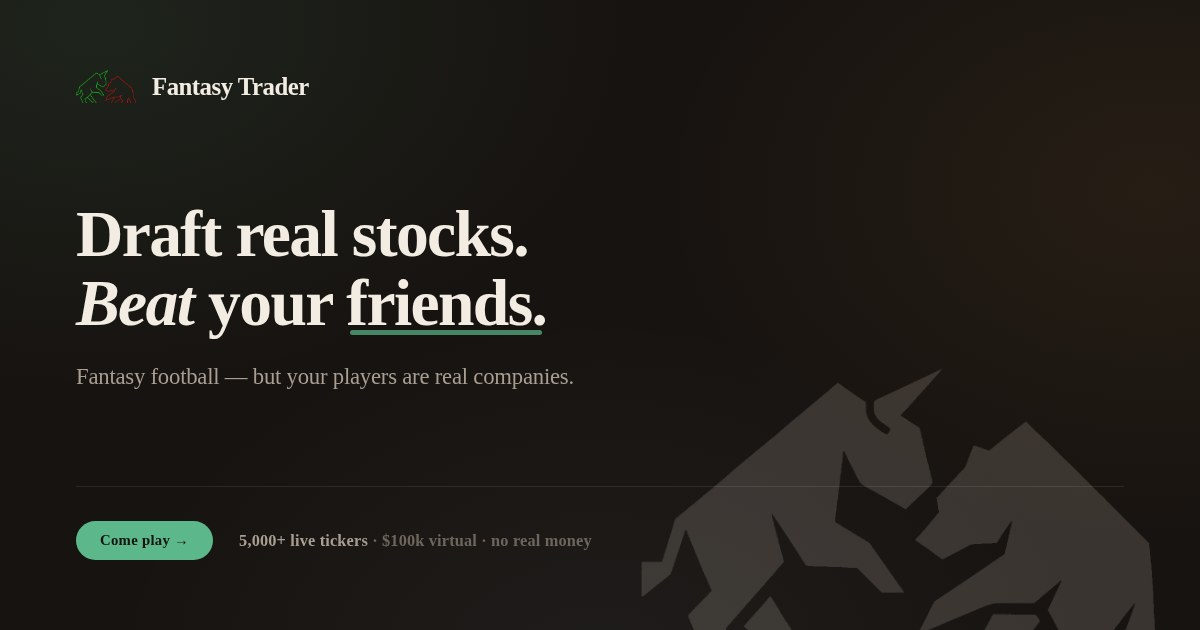
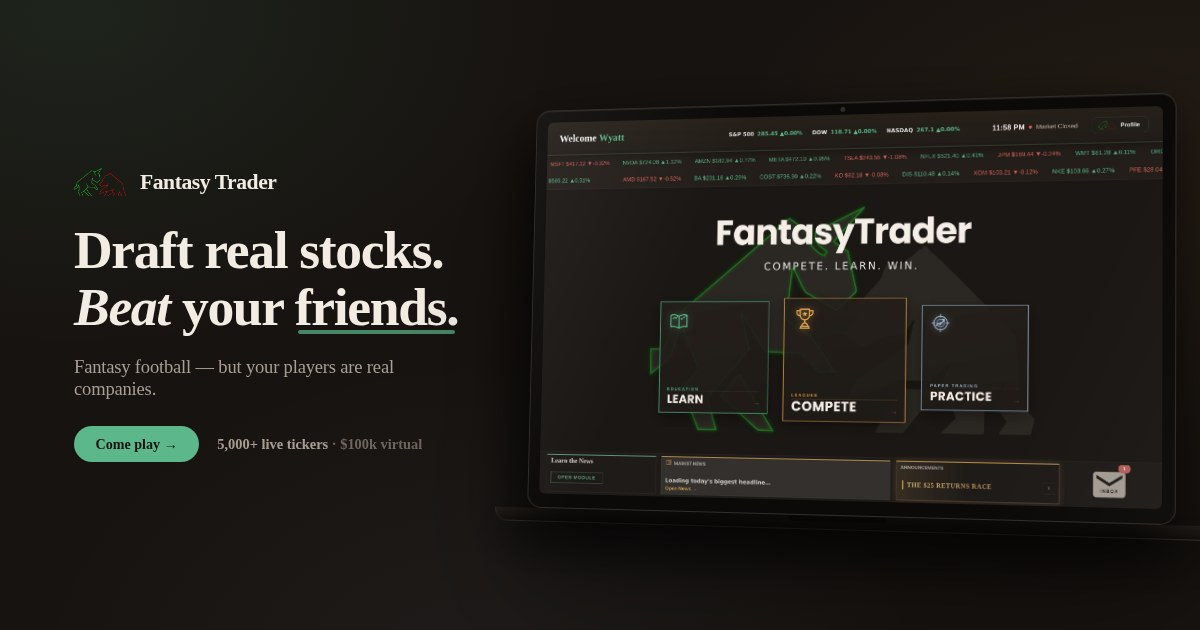
Fantasy Trader update Aug 08, 1:03 PM

diff --git a/_ogcard.html b/_ogcard.html
@@ -1,53 +1,60 @@
-<!DOCTYPE html><html><head>
-    <!-- how the link looks when someone shares it -->
-    <meta property="og:type" content="website">
-    <meta property="og:site_name" content="Fantasy Trader">
-    <meta property="og:url" content="https://fantasytrader.co/">
-    <meta property="og:title" content="Come play Fantasy Trader">
-    <meta property="og:description" content="Fantasy football, but your players are real companies. Draft stocks, run $100,000, and beat your friends head-to-head every week. Free, no real money.">
-    <meta property="og:image" content="https://fantasytrader.co/og-image.jpg">
-    <meta property="og:image:width" content="1200">
-    <meta property="og:image:height" content="630">
-    <meta property="og:image:alt" content="Fantasy Trader — draft real stocks, beat your friends">
-    <meta name="twitter:card" content="summary_large_image">
-    <meta name="twitter:title" content="Come play Fantasy Trader">
-    <meta name="twitter:description" content="Fantasy football, but your players are real companies. Draft stocks, run $100,000, and beat your friends every week.">
-    <meta name="twitter:image" content="https://fantasytrader.co/og-image.jpg"><meta charset="utf-8">
+<!DOCTYPE html><html><head><meta charset="utf-8">
 <link href="https://fonts.googleapis.com/css2?family=Inter:wght@500;600;700;800&family=Fraunces:ital,opsz,wght@0,9..144,550;1,9..144,550&display=swap" rel="stylesheet">
 <style>
-* { margin:0; padding:0; box-sizing:border-box; }
-body { width:1200px; height:630px; background:#171310; overflow:hidden;
-  font-family:'Inter',sans-serif; color:#F2ECE3; position:relative; }
-body::before { content:''; position:absolute; inset:0;
+*{margin:0;padding:0;box-sizing:border-box}
+body{width:1200px;height:630px;background:#171310;overflow:hidden;
+  font-family:'Inter',sans-serif;color:#F2ECE3;position:relative}
+body::before{content:'';position:absolute;inset:0;
   background:
-    radial-gradient(760px 520px at 8% 4%, rgba(92,184,138,.10), transparent 70%),
-    radial-gradient(700px 500px at 96% 30%, rgba(224,162,76,.075), transparent 70%),
-    radial-gradient(700px 520px at 50% 108%, rgba(157,184,210,.06), transparent 70%); }
-.art { position:absolute; right:-40px; bottom:-70px; width:660px; opacity:.16; }
-.wrap { position:relative; padding:70px 76px; height:100%; display:flex; flex-direction:column; }
-.top { display:flex; align-items:center; gap:16px; }
-.top img { width:60px; }
-.top b { font:800 1.55rem 'Inter'; letter-spacing:-.02em; }
-h1 { font:550 4.1rem/1.05 'Fraunces',Georgia,serif; letter-spacing:-.025em; margin-top:auto; max-width:820px; }
-h1 em { font-style:italic; }
-h1 .u { position:relative; white-space:nowrap; }
-h1 .u::after { content:''; position:absolute; left:2%; right:2%; bottom:.06em; height:.075em;
-  background:#5CB88A; opacity:.7; border-radius:3px; }
-.sub { margin-top:26px; font:500 1.42rem 'Inter'; color:#A89E92; letter-spacing:-.01em; }
-.foot { margin-top:auto; padding-top:34px; display:flex; align-items:center; gap:26px;
-  border-top:1px solid rgba(240,232,220,.10); }
-.pill { font:700 .92rem 'Inter'; letter-spacing:.02em; color:#171310; background:#5CB88A;
-  padding:.68rem 1.5rem; border-radius:999px; }
-.meta { font:600 1.02rem 'Inter'; color:#6E655C; letter-spacing:.01em; }
-.meta span { color:#A89E92; }
+    radial-gradient(700px 480px at 6% 2%, rgba(92,184,138,.10), transparent 70%),
+    radial-gradient(680px 470px at 98% 34%, rgba(224,162,76,.075), transparent 70%),
+    radial-gradient(640px 480px at 40% 110%, rgba(157,184,210,.055), transparent 70%)}
+.grid{position:relative;height:100%;display:grid;grid-template-columns:0.93fr 1.07fr;
+  gap:34px;align-items:center;padding:0 0 0 74px}
+.top{display:flex;align-items:center;gap:14px;margin-bottom:26px}
+.top img{width:52px}
+.top b{font:800 1.35rem 'Inter';letter-spacing:-.02em}
+h1{font:550 3.35rem/1.06 'Fraunces',Georgia,serif;letter-spacing:-.025em}
+h1 em{font-style:italic}
+h1 .u{position:relative;white-space:nowrap}
+h1 .u::after{content:'';position:absolute;left:2%;right:2%;bottom:.06em;height:.08em;
+  background:#5CB88A;opacity:.7;border-radius:3px}
+.sub{margin-top:20px;font:500 1.16rem 'Inter';color:#A89E92;letter-spacing:-.01em;max-width:26rem}
+.foot{margin-top:26px;display:flex;align-items:center;gap:18px}
+.pill{font:700 .88rem 'Inter';color:#171310;background:#5CB88A;padding:.6rem 1.35rem;border-radius:999px}
+.meta{font:600 .9rem 'Inter';color:#6E655C}
+.meta span{color:#A89E92}
+/* the machine, angled exactly like the hero */
+.zone{position:relative;perspective:1700px;padding-right:0}
+.machine{transform:rotateY(-13deg) rotateX(3.5deg);transform-style:preserve-3d;width:660px}
+.screen{position:relative;border-radius:15px;overflow:hidden;background:#0C0A08;padding:12px 12px 14px;
+  border:1px solid rgba(240,232,220,.16);
+  box-shadow:0 1px 0 rgba(255,255,255,.08) inset,0 28px 64px rgba(0,0,0,.55),
+             0 80px 140px rgba(0,0,0,.36),-16px 26px 54px rgba(0,0,0,.3)}
+.screen::after{content:'';position:absolute;inset:0;pointer-events:none;
+  background:linear-gradient(115deg,rgba(255,255,255,.06) 0%,transparent 28%,transparent 78%,rgba(255,255,255,.025) 100%)}
+.cam{position:absolute;top:4px;left:50%;transform:translateX(-50%);width:5px;height:5px;border-radius:50%;background:rgba(240,232,220,.16)}
+.screen img{display:block;width:100%;border-radius:6px;background:#1A1714}
+.base{height:14px;margin:0 -5.5%;border-radius:0 0 15px 15px;
+  background:linear-gradient(180deg,#2A241F,#16120F);
+  border:1px solid rgba(240,232,220,.1);border-top:none;
+  box-shadow:0 20px 40px rgba(0,0,0,.45);display:flex;justify-content:center}
+.base span{width:100px;height:5px;margin-top:1px;border-radius:0 0 8px 8px;background:rgba(0,0,0,.4)}
 </style></head><body>
-<img class="art" src="dash-hero.png" onerror="this.style.display='none'">
-<div class="wrap">
-  <div class="top"><img src="ft-logo-mark.png"><b>Fantasy Trader</b></div>
-  <h1>Draft real stocks.<br><em>Beat</em> your <span class="u">friends.</span></h1>
-  <div class="sub">Fantasy football — but your players are real companies.</div>
-  <div class="foot">
-    <span class="pill">Come play →</span>
-    <span class="meta"><span>5,000+ live tickers</span> · $100k virtual · no real money</span>
+<div class="grid">
+  <div>
+    <div class="top"><img src="ft-logo-mark.png"><b>Fantasy Trader</b></div>
+    <h1>Draft real stocks.<br><em>Beat</em> your <span class="u">friends.</span></h1>
+    <div class="sub">Fantasy football — but your players are real companies.</div>
+    <div class="foot">
+      <span class="pill">Come play →</span>
+      <span class="meta"><span>5,000+ live tickers</span> · $100k virtual</span>
+    </div>
+  </div>
+  <div class="zone">
+    <div class="machine">
+      <div class="screen"><div class="cam"></div><img src="shots/dashboard.jpg"></div>
+      <div class="base"><span></span></div>
+    </div>
   </div>
 </div></body></html>

diff --git a/index.html b/index.html
@@ -367,7 +367,31 @@
         footer .fl a:hover { color: var(--ink); }
         .legal { background: var(--bg2); padding: 0 0 1.8rem; }
         .legal div { max-width: 1120px; margin: 0 auto; padding: 0 1.5rem; font-size: 0.69rem; color: var(--ink3); line-height: 1.65; }
-    </style>
+    
+        /* ── Short viewports ─────────────────────────────────────────────
+           On 800px-tall laptops the "It works like fantasy football" headline
+           fell ~90px below the fold, so the page looked like it ended at the
+           stat line. Compress the hero so the next section always peeks up
+           and invites the scroll. */
+        @media (max-height: 900px) {
+            .hero { padding-top: 4.6rem; }
+            .hero-txt h1 { font-size: clamp(2rem, 3.5vw, 2.85rem); }
+            .hero-txt .sub { margin: 1rem 0 1.5rem; font-size: 0.98rem; line-height: 1.6; }
+            .kick { margin-bottom: 1.2rem; }
+            .btn { padding: 0.78rem 1.5rem; }
+            .trust { margin-top: 0.9rem; }
+            .demo-cta { margin-top: 1.1rem; }
+            .statline { margin-top: 2rem; padding-top: 2rem; gap: 2.4rem; }
+            .statline b { font-size: 1.42rem; }
+            section { padding-top: 3.2rem; }
+        }
+        @media (max-height: 820px) {
+            .hero { padding-top: 4.2rem; }
+            .hero-grid { gap: 2.4rem; }
+            .statline { margin-top: 1.5rem; padding-top: 1.5rem; }
+            section { padding-top: 2.6rem; }
+        }
+</style>
 </head>
 <body>
 
@@ -381,8 +405,8 @@
             <a href="#faq">FAQ</a>
         </div>
         <div class="na">
-            <a class="si" href="signup.html?mode=login">Sign in</a>
-            <a class="gs" href="signup.html">Get started</a>
+            <a class="si" id="navSignIn" href="signup.html?mode=login">Sign in</a>
+            <a class="gs" id="navCta" href="signup.html">Get started</a>
         </div>
     </div>
 </nav>
@@ -394,7 +418,7 @@
             <h1>Draft real stocks.<br><em>Beat</em> your <span class="und">friends.</span></h1>
             <p class="sub">It plays exactly like fantasy football — snake draft, weekly head-to-head matchups, waivers and trades — except your players are fourteen real companies and your season runs on the actual market.</p>
             <div class="ctas">
-                <a class="btn g" href="signup.html">Start a league — it's free</a>
+                <a class="btn g" id="heroCta" href="signup.html">Start a league — it's free</a>
                 <a class="btn s" href="#season">See how a season plays</a>
             </div>
             <div class="trust">Real market data &middot; no real money, ever &middot; two minutes to your first draft</div>
@@ -587,6 +611,33 @@
 <script>
 const nav = document.getElementById('nav');
 addEventListener('scroll', () => nav.classList.toggle('sc', scrollY > 20), { passive: true });
+
+/* ── Returning player? Point the buttons at the dashboard instead of signup.
+   We read Supabase's stored session directly rather than loading the whole
+   auth SDK on the landing page — this is only a hint for the button label;
+   the dashboard still verifies properly and bounces anyone who isn't real. */
+(function () {
+    let signedIn = false;
+    try {
+        for (let i = 0; i < localStorage.length; i++) {
+            const k = localStorage.key(i);
+            if (!/^sb-.*-auth-token$/.test(k)) continue;
+            const v = JSON.parse(localStorage.getItem(k) || 'null');
+            const exp = v && (v.expires_at || (v.currentSession && v.currentSession.expires_at));
+            // a refresh token means Supabase can silently renew an expired session
+            const canRefresh = v && (v.refresh_token || (v.currentSession && v.currentSession.refresh_token));
+            if (v && (canRefresh || (exp && exp * 1000 > Date.now()))) { signedIn = true; break; }
+        }
+    } catch (e) { /* private mode or blocked storage — leave the default buttons */ }
+    if (!signedIn) return;
+
+    const cta = document.getElementById('navCta');
+    const si = document.getElementById('navSignIn');
+    const hero = document.getElementById('heroCta');
+    if (cta)  { cta.textContent = 'Open dashboard'; cta.href = 'dashboard.html'; }
+    if (si)   { si.style.display = 'none'; }
+    if (hero) { hero.textContent = 'Go to your dashboard →'; hero.href = 'dashboard.html'; }
+})();
 
 const io = new IntersectionObserver(es => es.forEach(e => { if (e.isIntersecting) { e.target.classList.add('in'); io.unobserve(e.target); } }), { threshold: 0.12 });
 document.querySelectorAll('.rv').forEach(el => io.observe(el));

diff --git a/your-league.html b/your-league.html
@@ -1820,6 +1820,16 @@
             cursor: pointer; white-space: nowrap; transition: all 0.15s ease;
         }
         .pf-trade:hover { background: rgba(224, 162, 76, 0.12); }
+        /* confirm dialog buttons */
+        .cf-no, .cf-yes {
+            cursor: pointer; padding: 0.62rem 1.1rem; border-radius: 8px;
+            font: 700 0.8rem 'Inter', sans-serif; transition: all 0.15s ease;
+        }
+        .cf-no { background: none; border: 1px solid rgba(236,226,214,0.16); color: #B7ADA1; }
+        .cf-no:hover { color: #F4EEE6; border-color: rgba(236,226,214,0.32); }
+        .cf-yes { background: #E0A24C; border: none; color: #17130F; }
+        .cf-yes:hover { filter: brightness(1.08); }
+
         .tc-bar { margin-bottom: 1rem; }
         .tf-group { display: inline-flex; gap: 2px; background: rgba(236,226,214,0.05); padding: 2px; }
         .tf-btn {
@@ -4385,11 +4395,49 @@
             document.body.appendChild(el);
         };
 
+        // A real dialog instead of the browser's grey confirm() box.
+        // Resolves true if they go ahead, false if they back out.
+        function askConfirm({ title, body, warn, ok, cancel }) {
+            return new Promise(resolve => {
+                const old = document.getElementById('confirmModal'); if (old) old.remove();
+                const m = document.createElement('div');
+                m.id = 'confirmModal'; m.className = 'ts-overlay';
+                m.innerHTML = `<div class="ts-box" style="max-width:440px;">
+                    <div class="ts-sym" style="margin-bottom:.5rem;">${title}</div>
+                    <div class="team-sub" style="line-height:1.65;margin-bottom:.9rem;">${body}</div>
+                    ${warn ? `<div style="background:rgba(224,162,76,.08);border-left:2px solid #E0A24C;
+                        padding:.7rem .9rem;margin-bottom:1.1rem;font:500 .8rem 'Inter',sans-serif;color:#E0A24C;">${warn}</div>` : ''}
+                    <div style="display:flex;gap:.6rem;justify-content:flex-end;">
+                        <button class="cf-no">${cancel || 'Cancel'}</button>
+                        <button class="cf-yes">${ok || 'Continue'}</button>
+                    </div>
+                </div>`;
+                const done = v => { m.remove(); resolve(v); };
+                m.querySelector('.cf-no').onclick = () => done(false);
+                m.querySelector('.cf-yes').onclick = () => done(true);
+                m.addEventListener('click', e => { if (e.target === m) done(false); });
+                document.addEventListener('keydown', function esc(e) {
+                    if (e.key === 'Escape') { document.removeEventListener('keydown', esc); done(false); }
+                });
+                document.body.appendChild(m);
+            });
+        }
+
         window.draftStart = async () => {
             const dAt = (DRAFT.league || {}).draft_at ? new Date(DRAFT.league.draft_at) : null;
             if (dAt && dAt.getTime() > Date.now()) {
-                const when = dAt.toLocaleString([], { weekday: 'short', month: 'short', day: 'numeric', hour: 'numeric', minute: '2-digit' });
-                if (!confirm('The draft is scheduled for ' + when + '.\n\nStart early anyway? Everyone in the lobby will be pulled in now.')) return;
+                const when = dAt.toLocaleString([], { weekday: 'long', month: 'short', day: 'numeric', hour: 'numeric', minute: '2-digit' });
+                const ms = dAt.getTime() - Date.now();
+                const d = Math.floor(ms / 86400000), h = Math.floor(ms % 86400000 / 3600000), mn = Math.floor(ms % 3600000 / 60000);
+                const away = d ? `${d}d ${h}h` : h ? `${h}h ${mn}m` : `${mn}m`;
+                const waiting = (DRAFT.members || []).length;
+                const ok = await askConfirm({
+                    title: 'Start the draft early?',
+                    body: `This league is scheduled to draft <b style="color:#F4EEE6;">${when}</b> — that's still <b style="color:#F4EEE6;">${away}</b> away.`,
+                    warn: `Starting now pulls in all ${waiting} player${waiting === 1 ? '' : 's'} currently in the lobby. Anyone who hasn't joined yet will miss the draft entirely.`,
+                    ok: 'Start anyway', cancel: 'Wait for the scheduled time'
+                });
+                if (!ok) return;
             }
             const b = document.getElementById('draftStartBtn'); if (b){ b.disabled=true; b.textContent='Starting…'; }
             try { await SL.startDraft(DRAFT.id); await draftRefresh(); }

diff --git a/dashboard.html b/dashboard.html
@@ -97,7 +97,7 @@
             position: fixed;
             top: 80px;
             width: 100%;
-            height: 80px;
+            height: 64px;   /* 20% shorter than the old 80px */
             background: rgba(36, 31, 27, 0.9);
             z-index: 998;
             overflow: hidden;
@@ -105,7 +105,7 @@
         }
 
         .ticker-row {
-            height: 40px;
+            height: 32px;   /* two rows -> 64px total */
             overflow: hidden;
             display: flex;
             align-items: center;
@@ -142,7 +142,7 @@
             padding: 0 1rem;
             font-family: 'Inter', sans-serif;
             font-weight: 500;
-            font-size: 0.85rem;
+            font-size: 0.82rem;
         }
 
         .ticker-item.up {
@@ -254,12 +254,12 @@
                `contain` + `center` centers the bull & bear inside it. This keeps
                the gaps above the horns and below the hooves equal on ANY screen —
                laptop, iMac or iPad — instead of a hardcoded offset. */
-            top: 161px;
+            top: 145px;
             left: 50%;
             transform: translateX(-50%);
             width: min(1120px, 96vw);
-            height: calc(100vh - 261px);
-            height: calc(100dvh - 261px);   /* mobile browser chrome-aware */
+            height: calc(100vh - 245px);
+            height: calc(100dvh - 245px);   /* mobile browser chrome-aware */
             min-height: 300px;
             background: url('dash-hero-centered.png') center center / contain no-repeat;
             opacity: 0.08;
@@ -269,12 +269,12 @@
         .hero-art-trace {
             position: absolute;
             /* must match .hero-art EXACTLY or the glowing outline desyncs from the art */
-            top: 161px;
+            top: 145px;
             left: 50%;
             transform: translateX(-50%);
             width: min(1120px, 96vw);
-            height: calc(100vh - 261px);
-            height: calc(100dvh - 261px);
+            height: calc(100vh - 245px);
+            height: calc(100dvh - 245px);
             min-height: 300px;
             pointer-events: none;
             z-index: 0;
@@ -906,7 +906,7 @@
         /* Center title section vertically */
         .title-section {
             text-align: center;
-            margin: 220px 0 50px 0;
+            margin: 204px 0 50px 0;   /* clears the (now shorter) ticker strip */
             position: relative;
             z-index: 2;
             padding: 0 20px;
@@ -1594,14 +1594,14 @@
            league 245, learn 222, practice 200) so the row always clears it.
            Selectors are .main-actions-scoped to outrank .action-button.league. */
         @media (max-height: 900px) {
-            .title-section { margin-top: 200px !important; margin-bottom: 32px !important; }
+            .title-section { margin-top: 184px !important; margin-bottom: 32px !important; }
             .main-actions { gap: 1.7rem; margin-bottom: 1.4rem; }
             .main-actions .action-button           { width: 176px; height: 176px; padding: 0.9rem 1rem 0.85rem; }
             .main-actions .action-button.league    { width: 216px; height: 216px; }
             .main-actions .action-button.learn     { width: 196px; height: 196px; }
         }
         @media (max-height: 800px) {
-            .title-section { margin-top: 182px !important; margin-bottom: 24px !important; }
+            .title-section { margin-top: 166px !important; margin-bottom: 24px !important; }
             .main-actions { gap: 1.25rem; margin-bottom: 1rem; }
             .main-actions .action-button           { width: 152px; height: 152px; padding: 0.72rem 0.8rem 0.68rem; }
             .main-actions .action-button.league    { width: 186px; height: 186px; }

diff --git a/signup.html b/signup.html
@@ -428,11 +428,18 @@
             el.textContent = msg; el.style.display = 'block';
         }
 
-        // If already signed in, skip straight to the dashboard.
+        // Already signed in? Don't make people type their password again —
+        // Supabase keeps the session alive, so send them straight in.
+        // Escape hatch: signup.html?switch=1 stays here to log in as someone else.
         (async () => {
-            if (false && SL.configured && await SL.currentUser()) { // stay here — let people log in or sign up
-                window.location.href = 'dashboard.html';
-            }
+            if (new URLSearchParams(location.search).has('switch')) return;
+            try {
+                if (SL.configured && await SL.currentUser()) {
+                    const d = (() => { try { const v = sessionStorage.getItem('sl_after_login');
+                        sessionStorage.removeItem('sl_after_login'); return v; } catch (e) { return null; } })();
+                    window.location.replace(d || 'dashboard.html');
+                }
+            } catch (e) { /* not signed in — show the form */ }
         })();
 
         // ---- LOGIN ----
